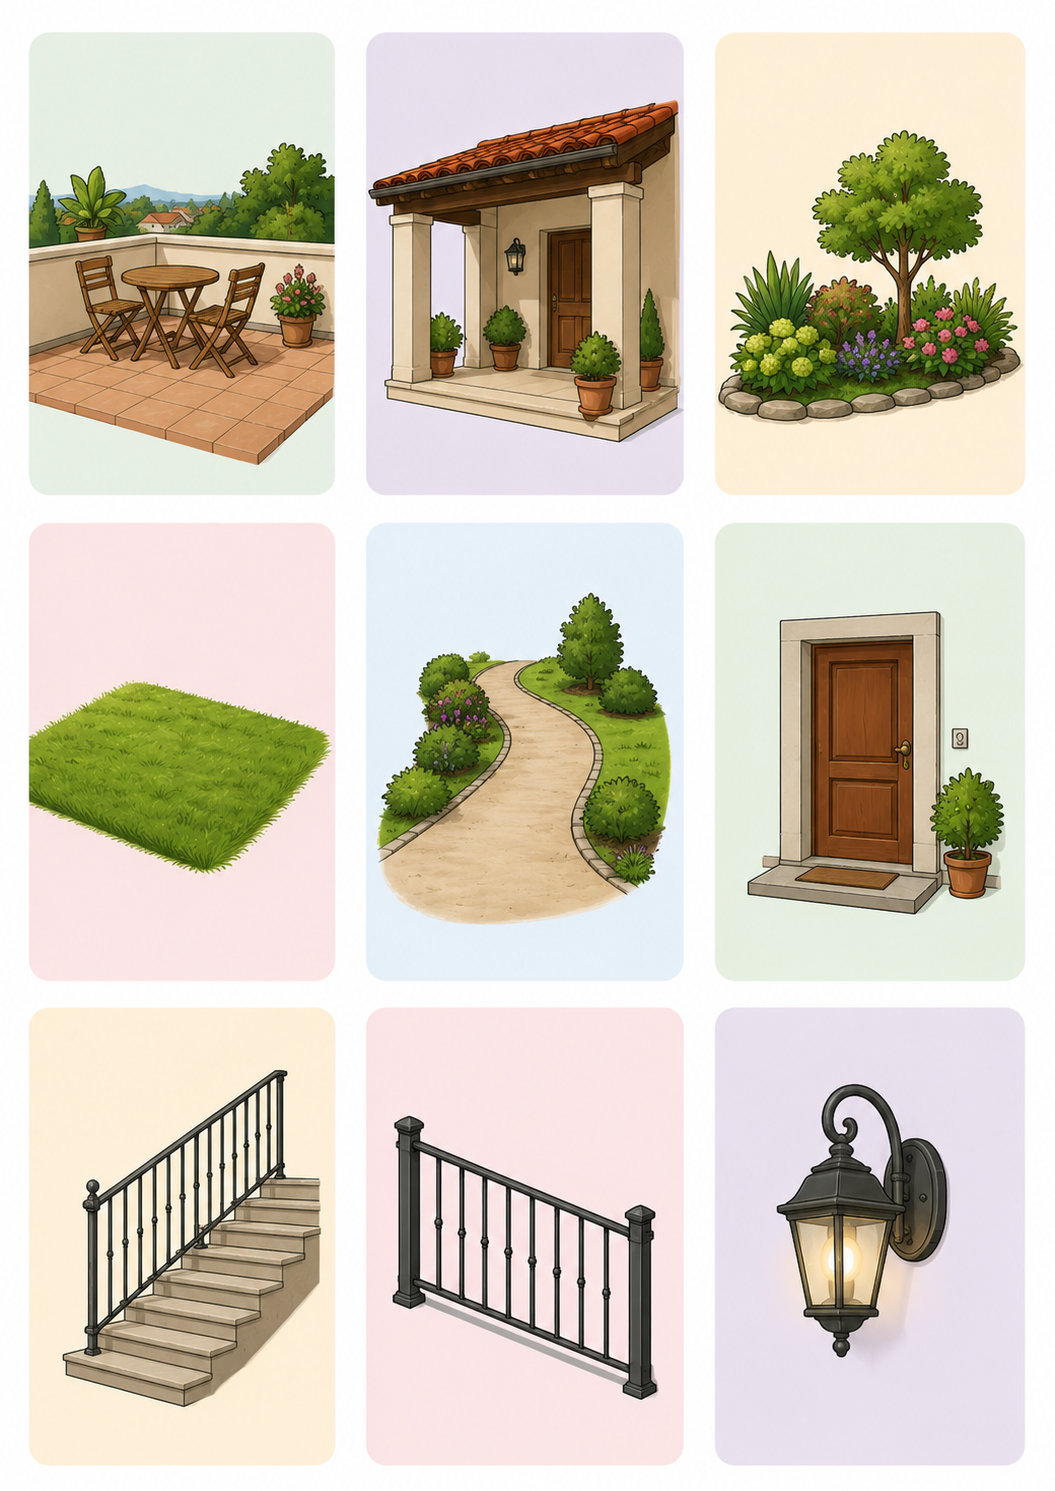
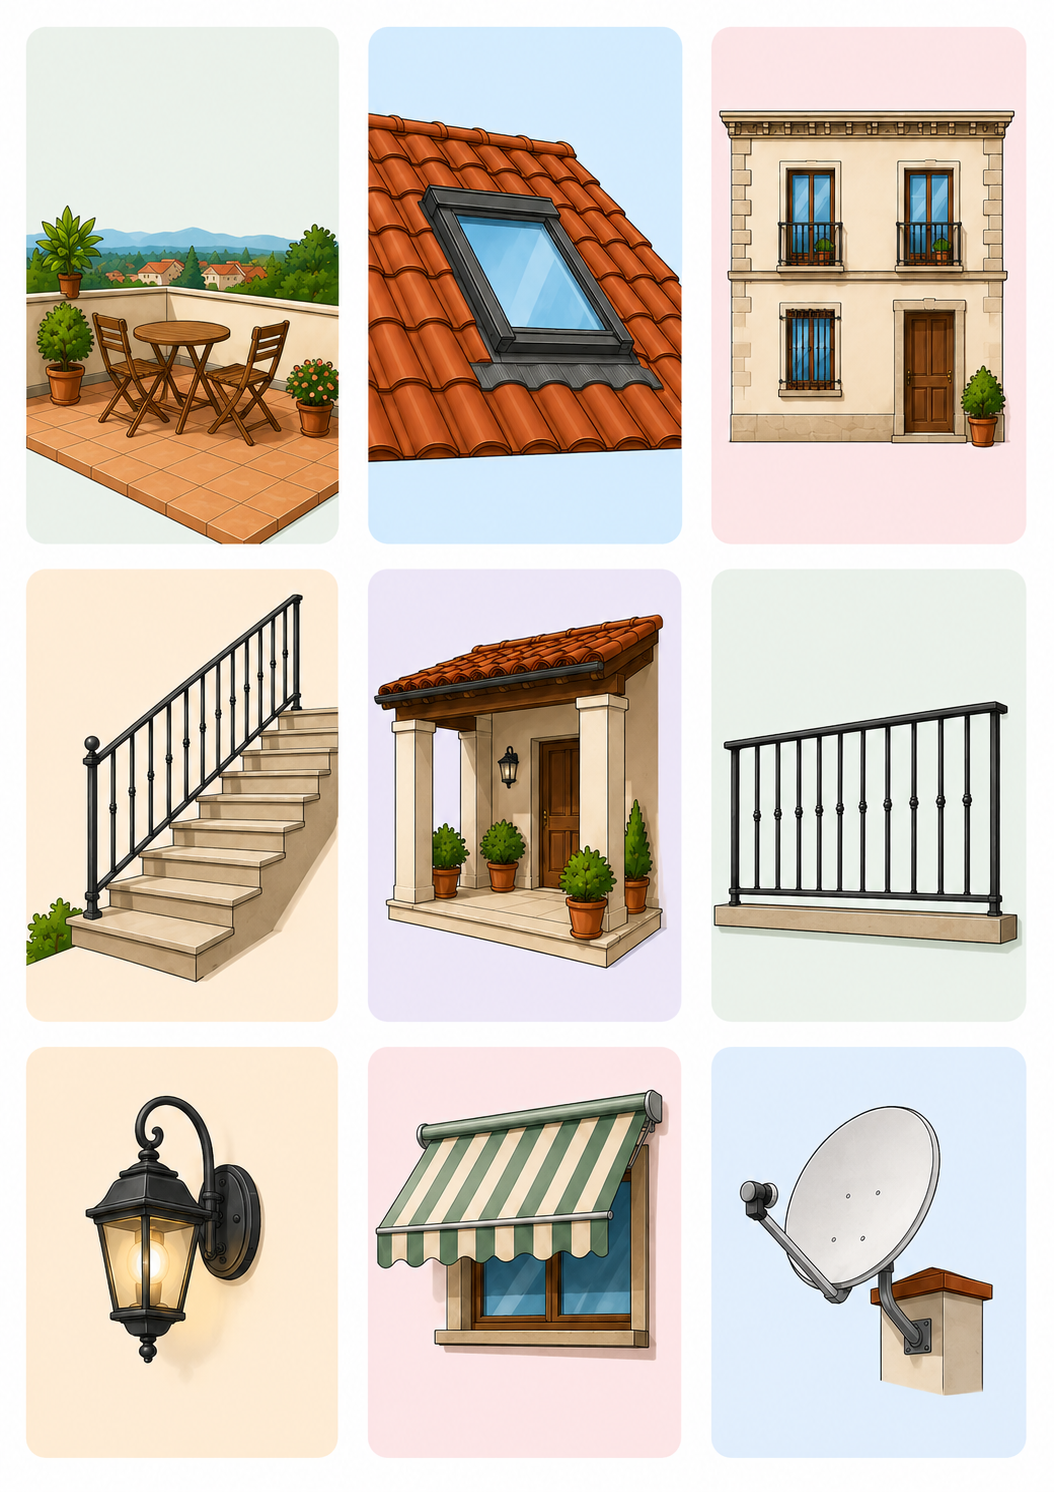
Aktualisiere haus11 und Vokabeln

diff --git a/bilder-daten.js b/bilder-daten.js
@@ -555,14 +555,14 @@ window.APP_FOLDERS = {
         file: "haus11.png",
         hotspots: [
           { wort: "la terraza", clickX: 16.8, clickY: 18.3, labelX: 16.8, labelY: 10.8, areaW: 31, areaH: 31 },
-          { wort: "el porche", clickX: 50.0, clickY: 18.3, labelX: 50.0, labelY: 10.8, areaW: 31, areaH: 31 },
-          { wort: "el jardín", clickX: 83.2, clickY: 18.3, labelX: 83.2, labelY: 10.8, areaW: 31, areaH: 31 },
-          { wort: "el césped", clickX: 16.8, clickY: 50.0, labelX: 16.8, labelY: 42.5, areaW: 31, areaH: 31 },
-          { wort: "el camino", clickX: 50.0, clickY: 50.0, labelX: 50.0, labelY: 42.5, areaW: 31, areaH: 31 },
-          { wort: "la entrada", clickX: 83.2, clickY: 50.0, labelX: 83.2, labelY: 42.5, areaW: 31, areaH: 31 },
-          { wort: "la escalera", clickX: 16.8, clickY: 81.7, labelX: 16.8, labelY: 74.2, areaW: 31, areaH: 31 },
-          { wort: "la barandilla", clickX: 50.0, clickY: 81.7, labelX: 50.0, labelY: 74.2, areaW: 31, areaH: 31 },
-          { wort: "la luz exterior", clickX: 83.2, clickY: 81.7, labelX: 83.2, labelY: 74.2, areaW: 31, areaH: 31 }
+          { wort: "la ventana de tejado", clickX: 50.0, clickY: 18.3, labelX: 50.0, labelY: 10.8, areaW: 31, areaH: 31 },
+          { wort: "la fachada", clickX: 83.2, clickY: 18.3, labelX: 83.2, labelY: 10.8, areaW: 31, areaH: 31 },
+          { wort: "la escalera", clickX: 16.8, clickY: 50.0, labelX: 16.8, labelY: 42.5, areaW: 31, areaH: 31 },
+          { wort: "el porche", clickX: 50.0, clickY: 50.0, labelX: 50.0, labelY: 42.5, areaW: 31, areaH: 31 },
+          { wort: "la barandilla", clickX: 83.2, clickY: 50.0, labelX: 83.2, labelY: 42.5, areaW: 31, areaH: 31 },
+          { wort: "la luz exterior", clickX: 16.8, clickY: 81.7, labelX: 16.8, labelY: 74.2, areaW: 31, areaH: 31 },
+          { wort: "el toldo", clickX: 50.0, clickY: 81.7, labelX: 50.0, labelY: 74.2, areaW: 31, areaH: 31 },
+          { wort: "la antena parabólica", clickX: 83.2, clickY: 81.7, labelX: 83.2, labelY: 74.2, areaW: 31, areaH: 31 }
         ]
       },
       {
